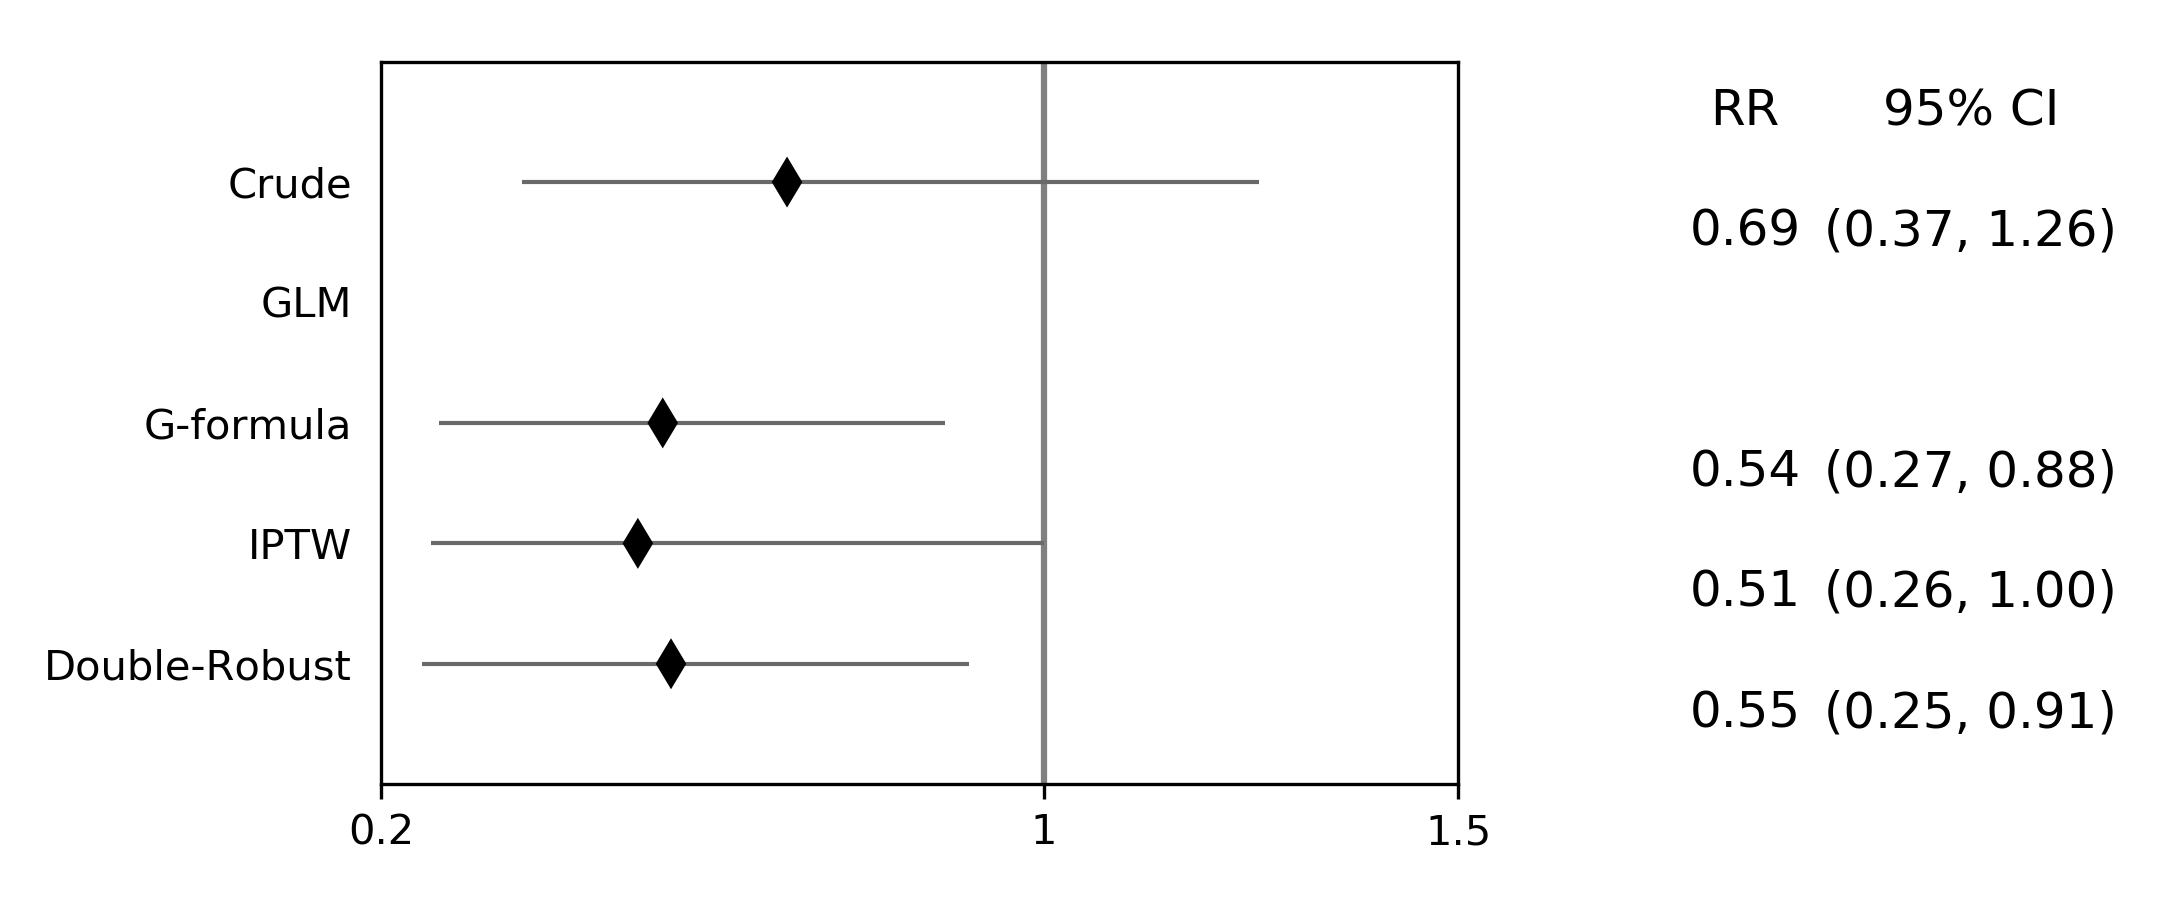
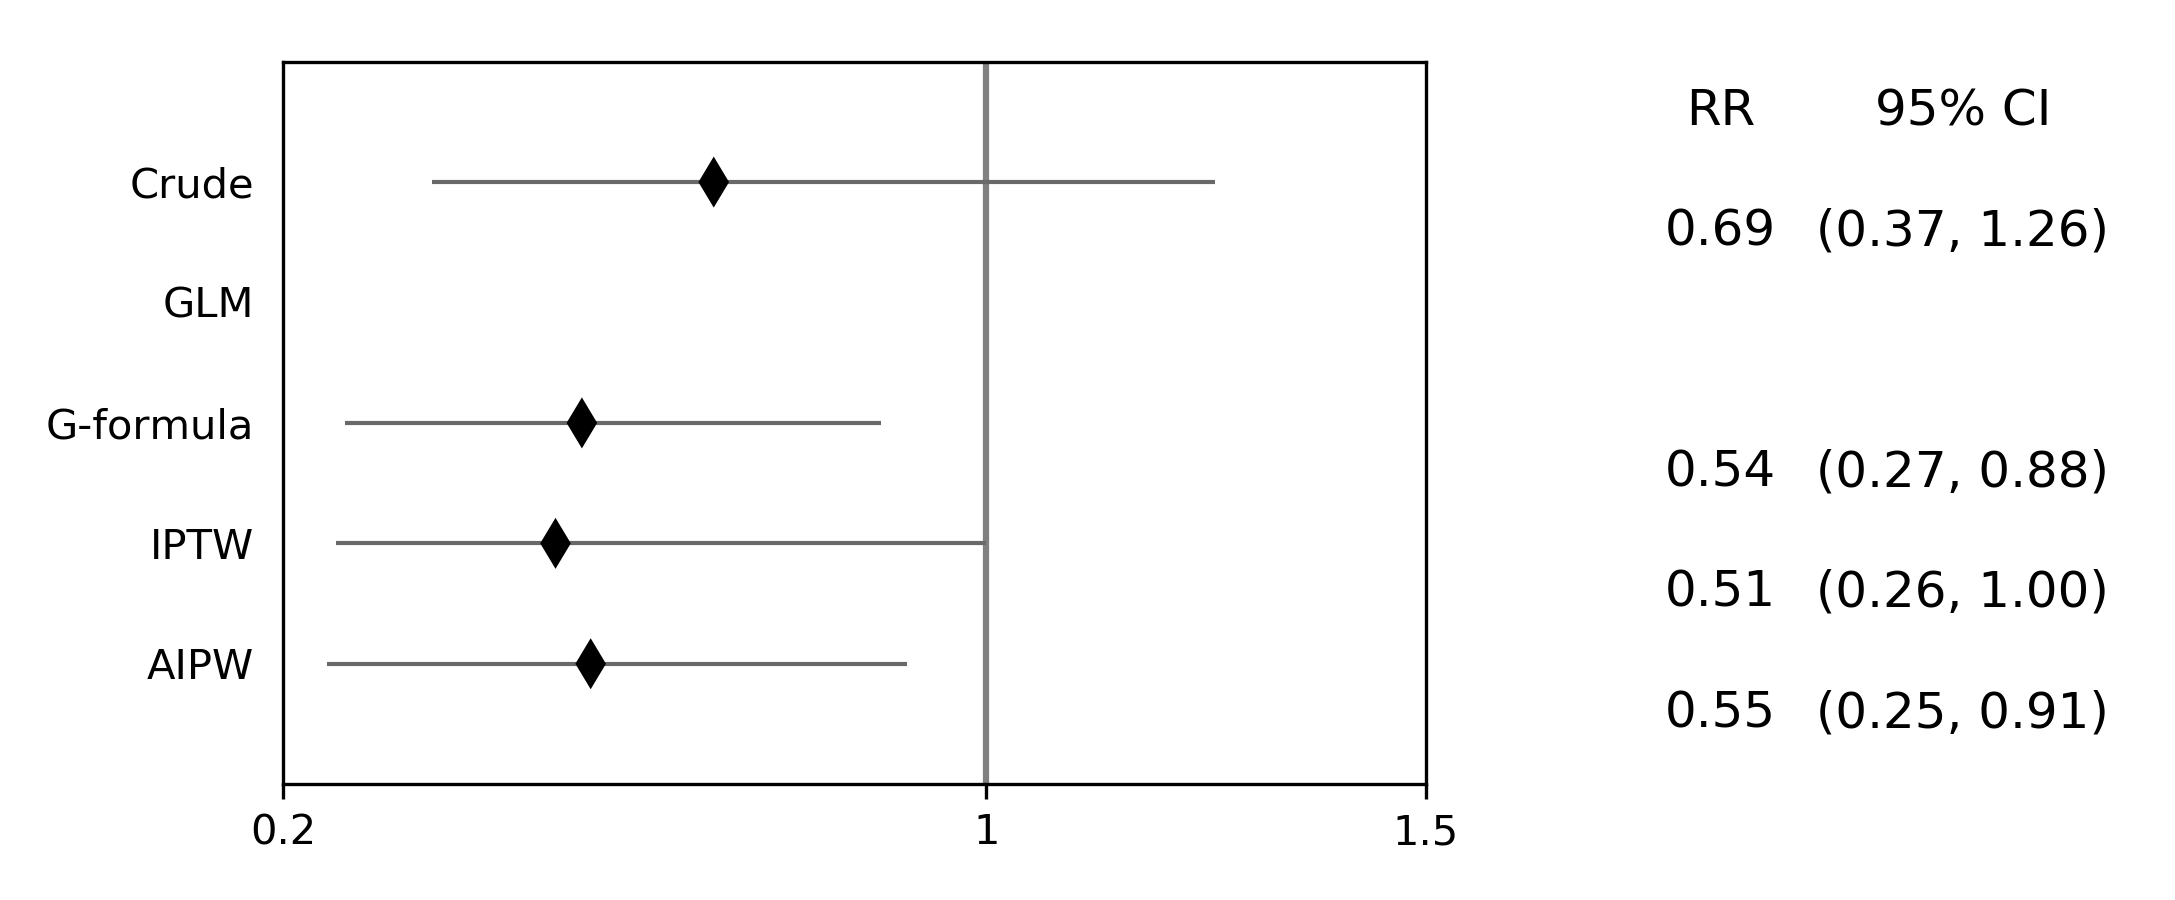
Updating to correctly label for DR as AIPW

diff --git a/zepid/causal/doublyrobust/AIPW.py b/zepid/causal/doublyrobust/AIPW.py
@@ -5,21 +5,23 @@ import statsmodels.formula.api as smf
 from statsmodels.genmod.families import links
 from zepid.causal.ipw import propensity_score
 
-class SimpleDoubleRobust:
-    '''Implementation of a simple doubly robust estimator as described in Funk et al. American Journal
-    of Epidemiology 2011;173(7):761-767. The exact formulas used are available in Table 1 and Equation 1.
-    Properties of the doubly robust estimator are often misunderstood, so we direct the reader to 
-    Keil et al. AJE 2018;187(4):891-892. SimplyDoubleRobust only supports a binary exposure and binary
-    outcome. Also this model does not deal with missing data or time varying exposures
-    
+
+class AIPW:
+    """Implementation of augmented inverse probablity weight estimator as described in Funk et al. American Journal
+    of Epidemiology 2011;173(7):761-767. The exact formulas used are available in Table 1 and Equation 1. Properties
+    of the doubly robust estimator are often misunderstood, so we direct the reader to  Keil et al. AJE
+    2018;187(4):891-892. SimplyDoubleRobust only supports a binary exposure and binary outcome. Also this model does
+    not deal with missing data or time varying exposures
+
     df:
         -pandas DataFrame object containing all variables of interest
     exposure:
         -column name of the exposure variable. Currently only binary is supported
     outcome:
         -column name of the outcome variable. Currently only binary is supported
-    '''
-    def __init__(self,df,exposure,outcome):
+    """
+
+    def __init__(self, df, exposure, outcome):
         self.df = df.copy()
         self._exposure = exposure
         self._outcome = outcome
@@ -30,37 +32,36 @@ class SimpleDoubleRobust:
         self.riskratio = None
         self._exp_model = None
         self._out_model = None
-    
-    def exposure_model(self,model,print_model_results=True):
-        '''Used to specify the propensity score model. Model used to predict the exposure via a 
-        logistic regression model
-        
+
+    def exposure_model(self, model, print_model_results=True):
+        """Used to specify the propensity score model. Model used to predict the exposure via a logistic regression
+        model
+
         model:
             -Independent variables to predict the exposure. Example) 'var1 + var2 + var3'
         print_model_results:
             -Whether to print the fitted model results. Default is True (prints results)
-        '''
-        self._exp_model = self._exposure + ' ~ '+ model
+        """
+        self._exp_model = self._exposure + ' ~ ' + model
         fitmodel = propensity_score(self.df, self._exp_model, mresult=print_model_results)
         self.df['ps'] = fitmodel.predict(self.df)
         self._fit_exposure_model = True
 
-    def outcome_model(self,model,print_model_results=True):
-        '''Used to specify the outcome model. Model used to predict the outcome via a logistic
-        regression model
-        
+    def outcome_model(self, model, print_model_results=True):
+        """Used to specify the outcome model. Model used to predict the outcome via a logistic regression model
+
         model:
             -Independent variables to predict the outcome. Example) 'var1 + var2 + var3 + var4'
         print_model_results:
             -Whether to print the fitted model results. Default is True (prints results)
-        '''
+        """
 
-        self._out_model = self._outcome + ' ~ '+ model
-        f = sm.families.family.Binomial(sm.families.links.logit) 
-        log = smf.glm(self._out_model,self.df,family=f).fit()
+        self._out_model = self._outcome + ' ~ ' + model
+        f = sm.families.family.Binomial(sm.families.links.logit)
+        log = smf.glm(self._out_model, self.df, family=f).fit()
         if print_model_results:
             print('\n----------------------------------------------------------------')
-            print('MODEL: '+self._out_model)
+            print('MODEL: ' + self._out_model)
             print('-----------------------------------------------------------------')
             print(log.summary())
 
@@ -71,36 +72,39 @@ class SimpleDoubleRobust:
         dfx[self._exposure] = 0
         self.df['pY0'] = log.predict(dfx)
         self._fit_outcome_model = True
-    
+
     def fit(self):
-        '''Once the exposure and outcome models are specified, we can estimate the Risk Ratio 
-        and Risk Difference. This function generates the estimated risk difference and risk ratio. 
-        To view results, use SimpleDoublyRobust.summary() For confidence intervals, bootstrap() must
-        be run, otherwise only point estimates will be generated
-        '''
+        """Once the exposure and outcome models are specified, we can estimate the Risk Ratio and Risk Difference.
+        This function generates the estimated risk difference and risk ratio.  To view results, use AIPW.summary() For
+        confidence intervals, a bootstrap procedure should be used
+        """
         if ((self._fit_exposure_model == False) or (self._fit_exposure_model == False)):
             raise ValueError('The exposure and outcome models must be specified before the doubly robust estimate can '
                              'be generated')
-        
-        #Doubly robust estimator for exposed
-        self.df['dr1'] = np.where(self.df[self._exposure]==1,
-                                  ((self.df[self._outcome])/self.df['ps']) - (((self.df['pY1'] * (1 - self.df['ps']))
-                                                                               / (self.df['ps']))),
+
+        # Doubly robust estimator for exposed
+        self.df['dr1'] = np.where(self.df[self._exposure] == 1,
+                                  ((self.df[self._outcome]) / self.df['ps']) - (((self.df['pY1'] * (1 - self.df['ps']))
+                                                                                 / (self.df['ps']))),
                                   self.df['pY1'])
-        
-        #Doubly robust estimator for unexposed
-        self.df['dr0'] = np.where(self.df[self._exposure]==0,
+
+        # Doubly robust estimator for unexposed
+        self.df['dr0'] = np.where(self.df[self._exposure] == 0,
                                   (self.df['pY0']),
-                                  ((self.df[self._outcome])/(1 - self.df['ps']) - (((self.df['pY0']) * (self.df['ps']))
-                                                                                   / (1 - self.df['ps']))))
-        
-        #Generating estimates for the risk difference and risk ratio
+                                  ((self.df[self._outcome]) / (1 - self.df['ps']) - (
+                                              ((self.df['pY0']) * (self.df['ps']))
+                                              / (1 - self.df['ps']))))
+
+        # Generating estimates for the risk difference and risk ratio
         self.riskdiff = np.mean(self.df['dr1']) - np.mean(self.df['dr0'])
         self.riskratio = np.mean(self.df['dr1']) / np.mean(self.df['dr0'])
-    
-    def summary(self,decimal=4):
-        '''Prints a summary of the results for the doubly robust estimator. 
-        '''
+
+    def summary(self, decimal=4):
+        """Prints a summary of the results for the doubly robust estimator.
+
+        decimal:
+            -number of decimal places to display in the result
+        """
         if (self._fit_exposure_model == False) or (self._fit_exposure_model == False):
             raise ValueError('The exposure and outcome models must be specified before the double robust estimate can '
                              'be generated')
@@ -109,4 +113,3 @@ class SimpleDoubleRobust:
         print('Risk Difference: ', round(float(self.riskdiff), decimal))
         print('Risk Ratio: ', round(float(self.riskratio), decimal))
         print('----------------------------------------------------------------------')
-

diff --git a/zepid/causal/doublyrobust/__init__.py b/zepid/causal/doublyrobust/__init__.py
@@ -1,4 +1,1 @@
-from .Simple import SimpleDoubleRobust
-
-
-    
+from .AIPW import AIPW

diff --git a/docs/Causal.rst b/docs/Causal.rst
@@ -335,13 +335,14 @@ variables, dummy variables can be used (will add list option for dummy variable 
 
 For further discussion on IPTW diagnostics, I direct you to `Austin PC and Stuart EA <https://doi.org/10.1002/sim.6607>`_
 
-Doubly Robust Estimator
-----------------------------
-Simply put, a doubly robust estimator combines estimates from two statistical models (one for the exposure and one for
-the outcome) together. This has a nice property for investigators. As long as one of the specified statistical models
-(either the exposure or the outcome) is correct in a causal identifiable way, then the doubly robust estimate will be
-consistent. Essentially, you get two "tries" at the correct model form rather than just one. The doubly robust
-estimators do not avoid the common causal identification assumptions, and still require the use of causal graphs.
+Augmented Inverse Probability Weights
+----------------------------------------
+Augmented inverse probability weight estimator is a doubly robust method. Simply put, a doubly robust estimator combines
+estimates from two statistical models (one for the exposure and one for the outcome) together. This has a nice property
+for investigators. As long as one of the specified statistical models (either the exposure or the outcome) is correct
+in a causal identifiable way, then the doubly robust estimate will be consistent. Essentially, you get two "tries" at
+the correct model form rather than just one. The doubly robust estimators do not avoid the common causal identification
+assumptions, and still require the use of causal graphs.
 
 For further discussion on doubly robust estimators, see 
 
@@ -353,23 +354,22 @@ For further discussion on doubly robust estimators, see
 
 `Keil AP et al 2018 <https://www.ncbi.nlm.nih.gov/pubmed/29394330>`_
 
-
-The doubly robust estimator described by `Funk MJ et al. 2011 <https://www.ncbi.nlm.nih.gov/pubmed/21385832>`_ is
-implemented in *zEpid* through the ``SimpleDoubleRobust`` class. This is referred to as simple, since it does *not*
+The AIPW doubly robust estimator described by `Funk MJ et al. 2011 <https://www.ncbi.nlm.nih.gov/pubmed/21385832>`_ is
+implemented in *zEpid* through the ``AIPW`` class. This is referred to as simple, since it does *not*
 handle missing data or other complex issues. Additionally, it only handles a binary exposure and binary outcome.
 
 To obtain the double robust estimate, we first do all our background data preparation, then initialize the
-``SimpleDoubleRobust`` with the pandas dataframe, exposure column name, and outcome column name.
+``AIPW`` with the pandas dataframe, exposure column name, and outcome column name.
 
 .. code:: python
 
   import zepid as ze
-  from zepid.causal.doublyrobust import SimpleDoubleRobust
+  from zepid.causal.doublyrobust import AIPW
   df = ze.load_sample_data(timevary=False)
   df[['cd4_rs1','cd4_rs2']] = ze.spline(df,'cd40',n_knots=3,term=2,restricted=True)
   df[['age_rs1','age_rs2']] = ze.spline(df,'age0',n_knots=3,term=2,restricted=True)
 
-  sdr = SimpleDoubleRobust(df,exposure='art',outcome='dead')
+  sdr = AIPW(df,exposure='art',outcome='dead')
 
 After initialized, we need to fit an exposure model and an outcome model, as such
 
@@ -387,7 +387,7 @@ After both an exposure and outcome model are fit, we can estimate the double rob
 
   sdr.fit()
 
-After the ``fit()`` is run, the ``SimpleDoubleRobust`` class gains the following attributes; ``riskdiff`` corresponding
+After the ``fit()`` is run, the ``AIPW`` class gains the following attributes; ``riskdiff`` corresponding
 to the risk difference, ``riskratio`` corresponding to the risk ratio, and the function ``summary()`` which prints both
 estimates. Running ``sdr.summary()`` gives us the following results
 
@@ -412,7 +412,7 @@ code
   rr = []
   for i in range(500):
       dfs = df.sample(n=df.shape[0],replace=True)
-      s = SimpleDoubleRobust(dfs,exposure='art',outcome='dead')
+      s = AIPW(dfs,exposure='art',outcome='dead')
       s.exposure_model('male + age0 + age_rs1 + age_rs2 + cd40 + cd4_rs1 + cd4_rs2 + dvl0',print_model_results=False)
       s.outcome_model('art + male + age0 + age_rs1 + age_rs2 + cd40 + cd4_rs1 + cd4_rs2 + dvl0',print_model_result=False)
       s.fit()
@@ -423,7 +423,8 @@ code
   print('RD 95% CI: ',np.percentile(rd,q=[2.5,97.5]))
   print('RR 95% CI: ',np.percentile(rr,q=[2.5,97.5]))
 
-Again, this code may take a little while to run since 1000 regression models are fit (500 exposure models, 500 outcome models).
+Again, this code may take a little while to run since 1000 regression models are fit (500 exposure models, 500 outcome
+models).
 
 Comparison between methods
 ----------------------------------------
@@ -432,7 +433,7 @@ these results using the ``zepid.graphics.effectmeasure_plot()`` for both Risk Di
 
 .. code:: python
 
-  labs = ['Crude','GLM','G-formula','IPTW','Double-Robust']
+  labs = ['Crude','GLM','G-formula','IPTW','AIPW']
   measure = [-0.061,np.nan,-0.092,-0.099,-0.082]
   lower = ['-0.146',np.nan,-0.159,-0.176,-0.142]
   upper = [0.025,np.nan,'-0.020',-0.022,-0.017]
@@ -442,7 +443,7 @@ these results using the ``zepid.graphics.effectmeasure_plot()`` for both Risk Di
   plt.tight_layout()
   plt.show()
 
-  labs = ['Crude','GLM','G-formula','IPTW','Double-Robust']
+  labs = ['Crude','GLM','G-formula','IPTW','AIPW']
   measure = [0.72,np.nan,0.58,0.54,0.57]
   lower = [0.39,np.nan,0.28,0.27,0.24]
   upper = [1.33,np.nan,0.93,1.06,0.95]
